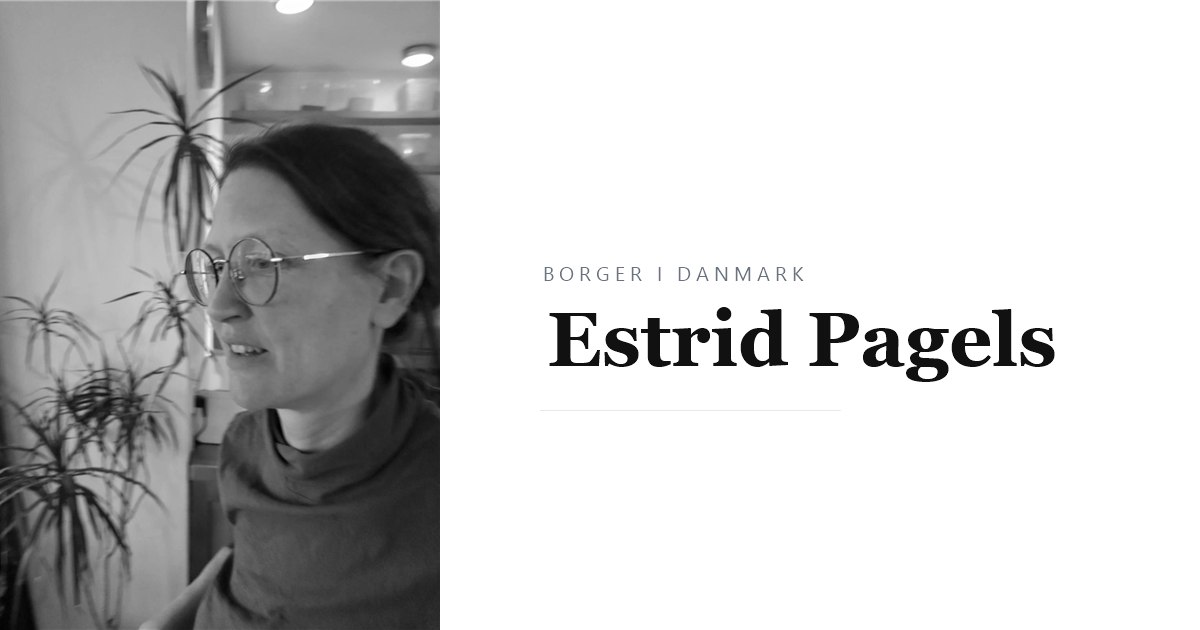
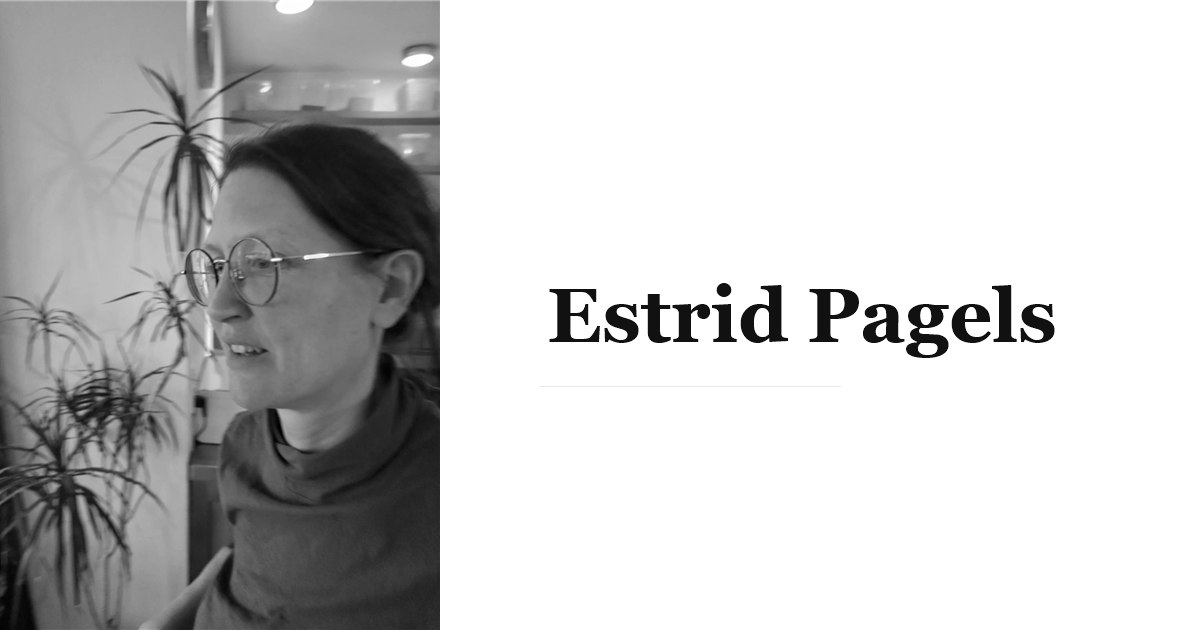
Fjern Borger i Danmark
Ude af hero, sidefod paa alle sider og delingsbilledet.

Changed region(s): [[0.4317, 0.4222, 0.8942, 0.6032]]

diff --git a/index.html b/index.html
@@ -41,7 +41,6 @@
                width="1200" height="1600" fetchpriority="high">
         </figure>
         <div>
-          <p class="eyebrow">Borger i Danmark</p>
           <!-- H1 kan skiftes ud med en kort sætning, hvis du hellere vil det -->
           <h1>Estrid Pagels</h1>
           <p class="lead">
@@ -59,7 +58,6 @@
   <div class="foot-grid">
     <div>
       <p class="foot-name">Estrid Pagels</p>
-      <p class="foot-roles">Borger i Danmark</p>
     </div>
     <ul class="foot-links">
       <li><a href="kontakt.html">Kontakt</a></li>

diff --git a/kontakt.html b/kontakt.html
@@ -85,7 +85,6 @@
   <div class="foot-grid">
     <div>
       <p class="foot-name">Estrid Pagels</p>
-      <p class="foot-roles">Borger i Danmark</p>
     </div>
     <ul class="foot-links">
       <li><a href="https://www.linkedin.com/in/estrid-pagels/" target="_blank" rel="noopener">LinkedIn</a></li>

diff --git a/brug-af-teksten.html b/brug-af-teksten.html
@@ -70,7 +70,6 @@
   <div class="foot-grid">
     <div>
       <p class="foot-name">Estrid Pagels</p>
-      <p class="foot-roles">Borger i Danmark</p>
     </div>
     <ul class="foot-links">
       <li><a href="kontakt.html">Kontakt</a></li>
